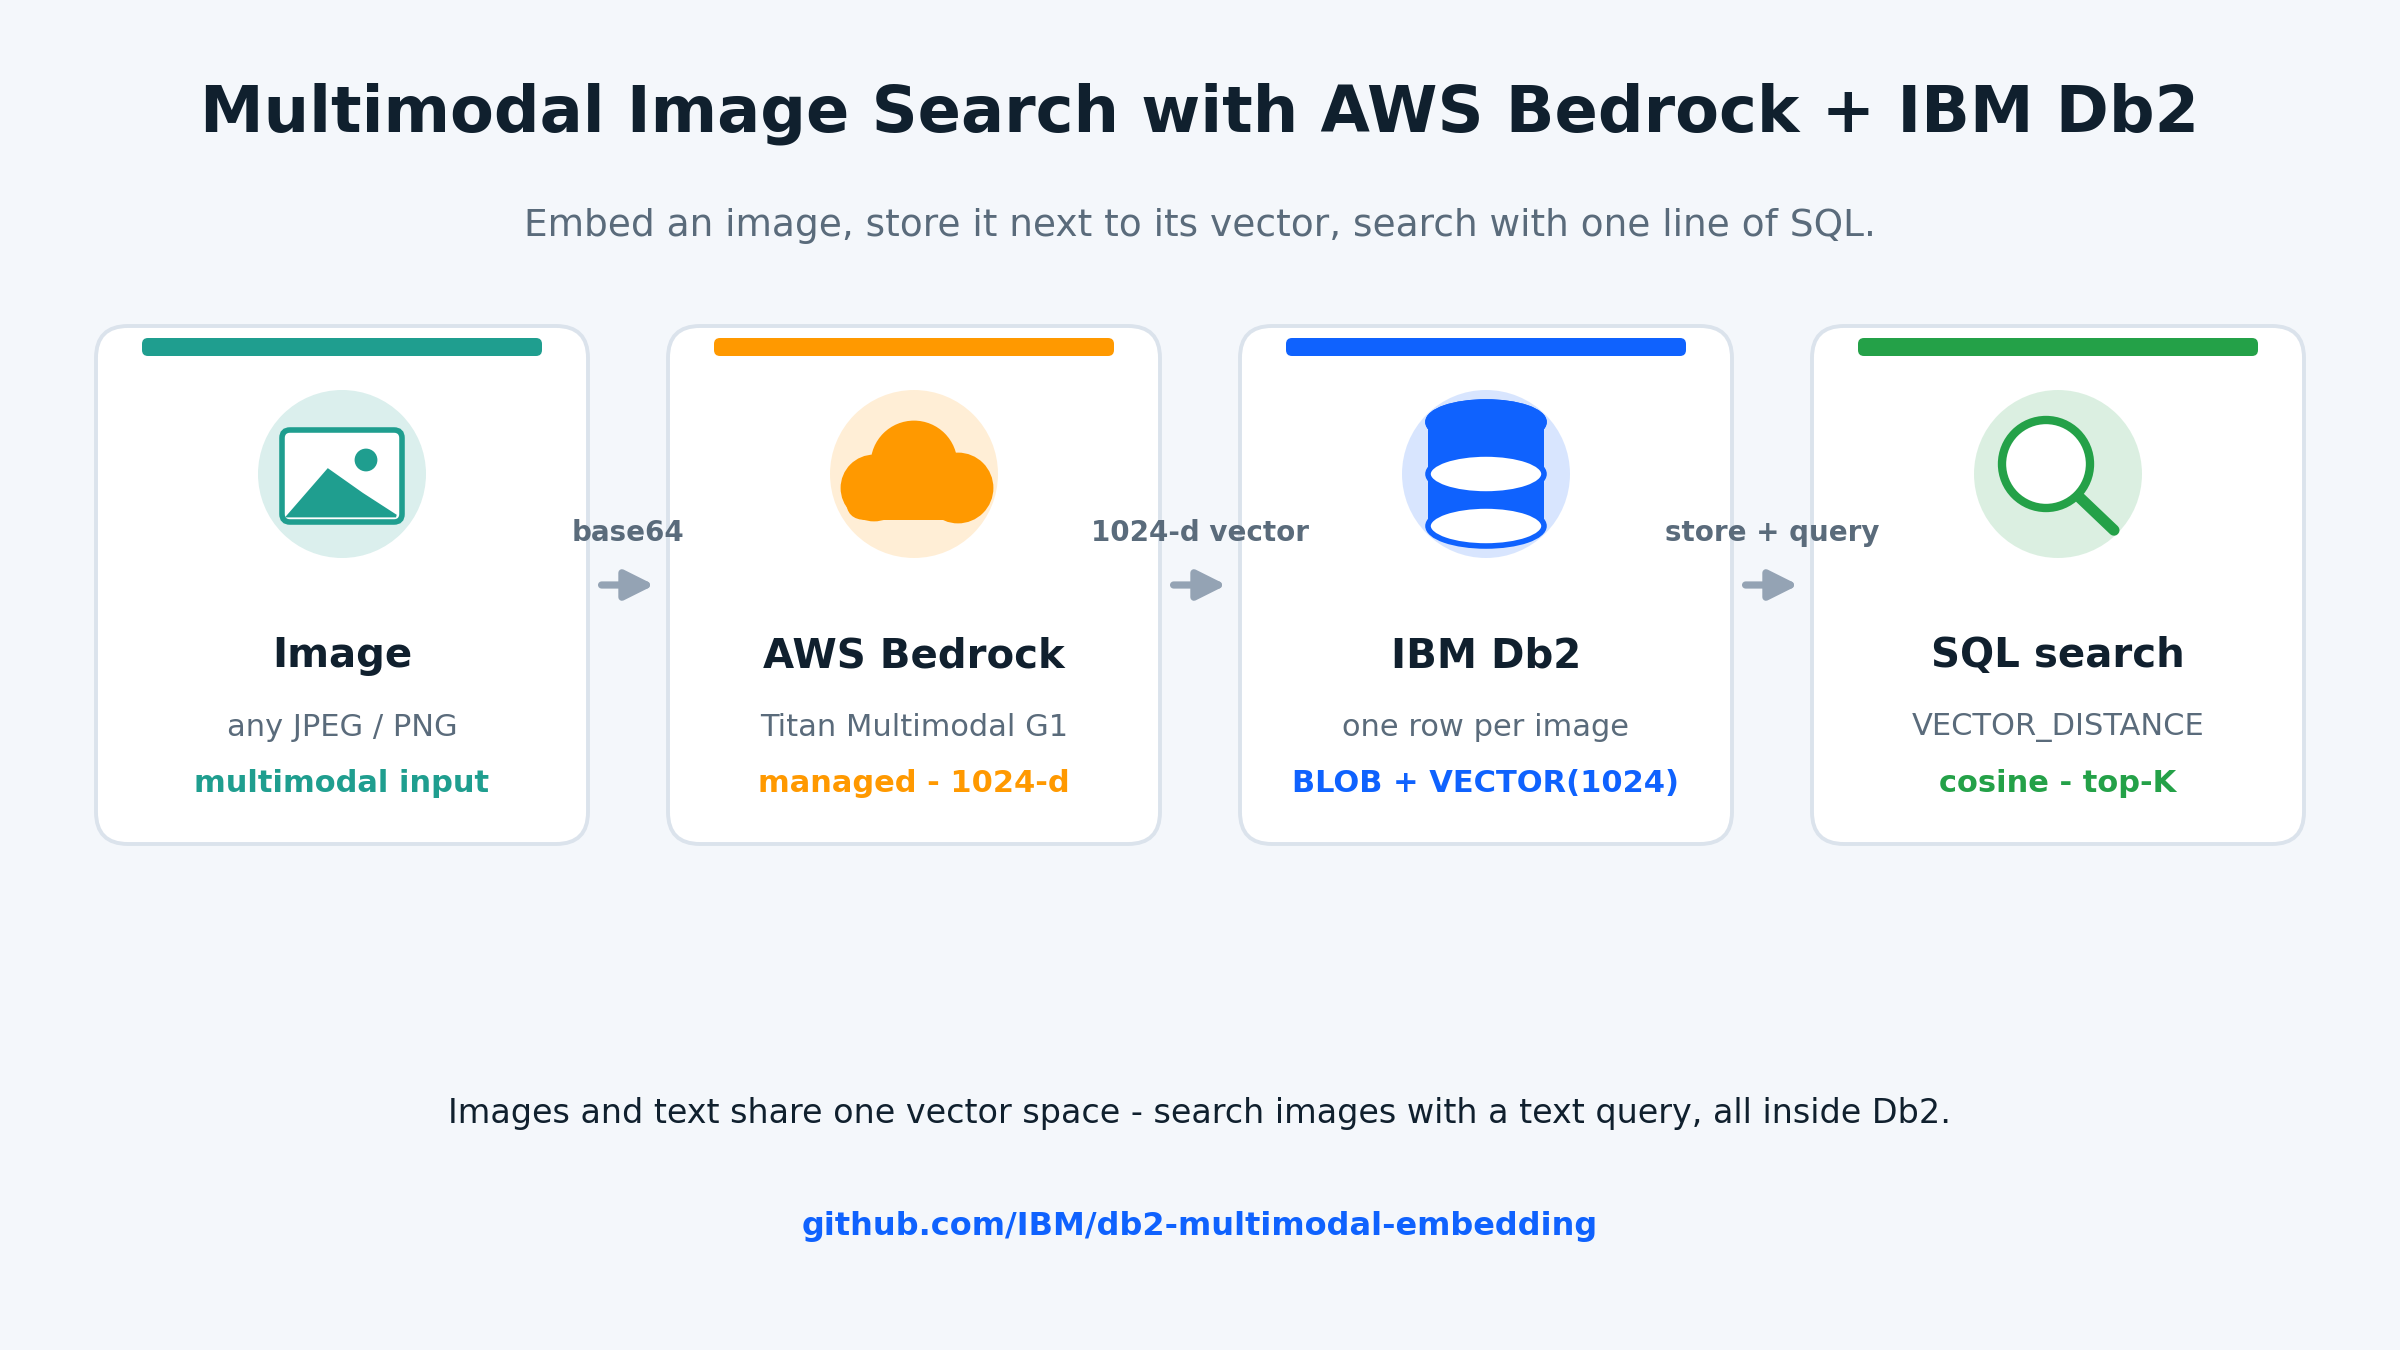
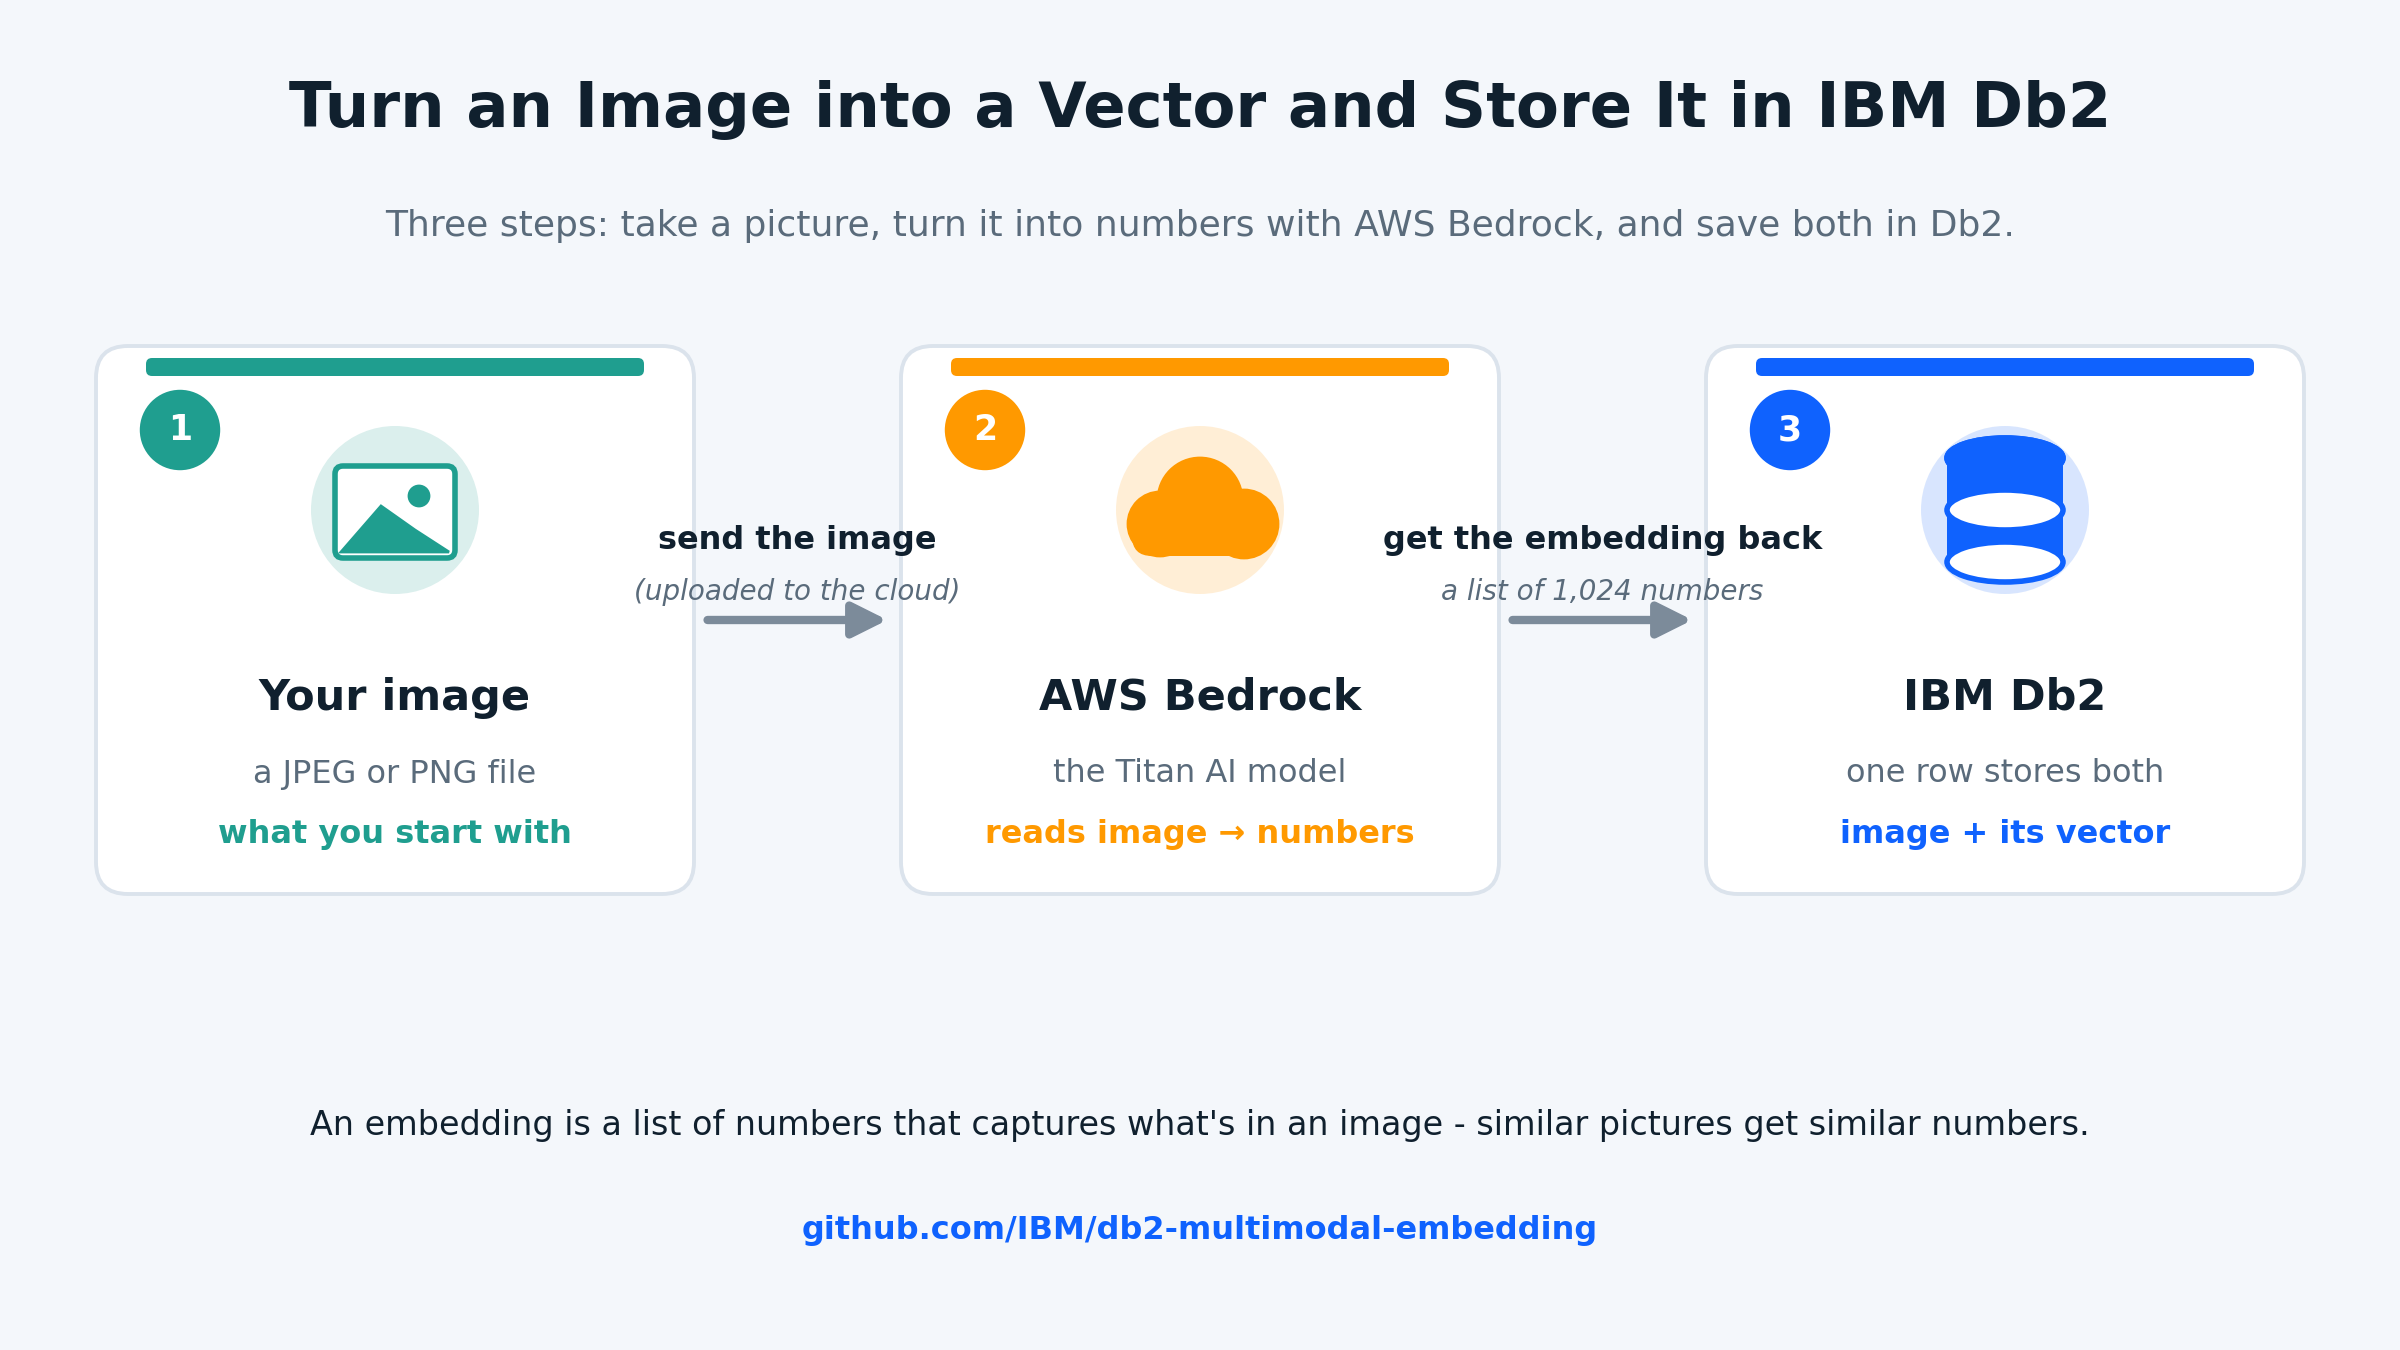
docs(bedrock): workflow image matches the code (embed + store, no search)
Drop the similarity-search step the script doesn't perform; show 3 numbered
steps (image -> Bedrock -> Db2) with plain-language arrows for readers new to
image embeddings; update captions and alt text accordingly.

diff --git a/bedrock-titan-image-embed/docs/make_workflow_image.py b/bedrock-titan-image-embed/docs/make_workflow_image.py
@@ -1,10 +1,14 @@
 """Render the Bedrock -> Db2 workflow as a LinkedIn-optimized PNG.
 
-Standalone (no module deps): uses matplotlib only. Produces a 16:9 landscape
-image at retina resolution (2400x1350) that reads well in the LinkedIn feed.
+Mirrors what embed_image.py actually does: read an image, get its embedding
+from AWS Bedrock (Titan Multimodal), and store the image + the embedding in
+IBM Db2. No similarity search happens in the script, so the diagram stops at
+"stored in Db2". Written for people new to image embeddings.
 
-    python3 docs/make_workflow_image.py
-    # -> docs/workflow_linkedin.png
+Standalone (matplotlib only). Produces a 16:9 image at retina resolution
+(2400x1350) that reads well in the LinkedIn feed.
+
+    python3 docs/make_workflow_image.py     # -> docs/workflow_linkedin.png
 """
 
 import matplotlib
@@ -19,11 +23,10 @@ SUB = "#5a6b7b"        # muted subtitle
 CANVAS = "#f4f7fb"     # page background
 CARD = "#ffffff"
 EDGE = "#dbe3ec"
-ARROW = "#94a3b4"
-IMG_C = "#1f9e8f"      # teal  (image)
+ARROW = "#7c8b9a"      # muted slate for arrows
+IMG_C = "#1f9e8f"      # teal   (image)
 AWS_C = "#ff9900"      # AWS orange
 DB2_C = "#0f62fe"      # IBM Carbon blue
-OUT_C = "#24a148"      # IBM Carbon green
 
 W, H = 12.0, 6.75      # inches; at dpi=200 -> 2400x1350 px (16:9)
 fig = plt.figure(figsize=(W, H), dpi=200)
@@ -35,31 +38,36 @@ fig.patch.set_facecolor(CANVAS)
 ax.add_patch(Rectangle((0, 0), W, H, color=CANVAS, zorder=0))
 
 # ---- header -----------------------------------------------------------------
-ax.text(W / 2, 6.18, "Multimodal Image Search with AWS Bedrock + IBM Db2",
-        ha="center", va="center", fontsize=23, fontweight="bold", color=INK)
-ax.text(W / 2, 5.62, "Embed an image, store it next to its vector, search with one line of SQL.",
-        ha="center", va="center", fontsize=13.5, color=SUB)
+ax.text(W / 2, 6.20, "Turn an Image into a Vector and Store It in IBM Db2",
+        ha="center", va="center", fontsize=22.5, fontweight="bold", color=INK)
+ax.text(W / 2, 5.62, "Three steps: take a picture, turn it into numbers with AWS Bedrock, and save both in Db2.",
+        ha="center", va="center", fontsize=13, color=SUB)
 
-# ---- card layout ------------------------------------------------------------
-CARD_W, CARD_H = 2.42, 2.55
-CY = 2.55                      # bottom y of cards
-GAP = (W - 1.0 - 4 * CARD_W) / 3.0
-XS = [0.5 + i * (CARD_W + GAP) for i in range(4)]
+# ---- card layout (3 cards) --------------------------------------------------
+CARD_W, CARD_H = 2.95, 2.70
+CY = 2.30                       # bottom y of cards
+GAP = (W - 1.0 - 3 * CARD_W) / 2.0
+XS = [0.5 + i * (CARD_W + GAP) for i in range(3)]
 CENTERS = [x + CARD_W / 2 for x in XS]
-ICON_CY = CY + CARD_H - 0.72   # icon center y
-TITLE_Y = CY + 0.92
-SUB1_Y = CY + 0.56
+ICON_CY = CY + CARD_H - 0.80
+TITLE_Y = CY + 0.96
+SUB1_Y = CY + 0.58
 SUB2_Y = CY + 0.28
 
 
-def card(x, accent):
+def card(x, accent, step):
     ax.add_patch(FancyBboxPatch((x, CY), CARD_W, CARD_H,
                  boxstyle="round,pad=0.02,rounding_size=0.16",
                  linewidth=1.4, edgecolor=EDGE, facecolor=CARD, zorder=2))
-    # accent bar at top of the card
-    ax.add_patch(FancyBboxPatch((x + 0.22, CY + CARD_H - 0.12), CARD_W - 0.44, 0.07,
+    ax.add_patch(FancyBboxPatch((x + 0.24, CY + CARD_H - 0.12), CARD_W - 0.48, 0.07,
                  boxstyle="round,pad=0.01,rounding_size=0.03",
                  linewidth=0, facecolor=accent, zorder=3))
+    # step-number badge (top-left) so beginners can follow the order
+    bx, by = x + 0.40, CY + CARD_H - 0.40
+    ax.add_patch(Circle((bx, by), 0.215, facecolor=accent, edgecolor="white",
+                        linewidth=2.0, zorder=6))
+    ax.text(bx, by, str(step), ha="center", va="center", fontsize=12.5,
+            fontweight="bold", color="white", zorder=7)
 
 
 def chip(cx, color):
@@ -68,10 +76,10 @@ def chip(cx, color):
 
 
 def label(cx, title, s1, s2, color):
-    ax.text(cx, TITLE_Y, title, ha="center", va="center", fontsize=14.5,
+    ax.text(cx, TITLE_Y, title, ha="center", va="center", fontsize=15.5,
             fontweight="bold", color=INK, zorder=4)
-    ax.text(cx, SUB1_Y, s1, ha="center", va="center", fontsize=11, color=SUB, zorder=4)
-    ax.text(cx, SUB2_Y, s2, ha="center", va="center", fontsize=11, color=color,
+    ax.text(cx, SUB1_Y, s1, ha="center", va="center", fontsize=11.5, color=SUB, zorder=4)
+    ax.text(cx, SUB2_Y, s2, ha="center", va="center", fontsize=11.5, color=color,
             fontweight="bold", zorder=4)
 
 
@@ -109,41 +117,40 @@ def icon_db(cx):
                          linewidth=2.0, zorder=6))
 
 
-def icon_search(cx):
-    chip(cx, OUT_C)
-    ax.add_patch(Circle((cx - 0.06, ICON_CY + 0.05), 0.22, facecolor="white",
-                        edgecolor=OUT_C, linewidth=3.0, zorder=4))
-    ax.add_patch(FancyArrowPatch((cx + 0.09, ICON_CY - 0.10), (cx + 0.30, ICON_CY - 0.30),
-                 arrowstyle="-", linewidth=4.0, color=OUT_C, zorder=4))
-
-
 # ---- build cards ------------------------------------------------------------
 specs = [
-    (icon_image, "Image", "any JPEG / PNG", "multimodal input", IMG_C),
-    (icon_cloud, "AWS Bedrock", "Titan Multimodal G1", "managed - 1024-d", AWS_C),
-    (icon_db, "IBM Db2", "one row per image", "BLOB + VECTOR(1024)", DB2_C),
-    (icon_search, "SQL search", "VECTOR_DISTANCE", "cosine - top-K", OUT_C),
+    (icon_image, "Your image", "a JPEG or PNG file", "what you start with", IMG_C),
+    (icon_cloud, "AWS Bedrock", "the Titan AI model", "reads image → numbers", AWS_C),
+    (icon_db, "IBM Db2", "one row stores both", "image + its vector", DB2_C),
 ]
-for x, c, (draw, t, s1, s2, col) in zip(XS, CENTERS, specs):
-    card(x, col)
+for x, c, (draw, t, s1, s2, col), step in zip(XS, CENTERS, specs, (1, 2, 3)):
+    card(x, col, step)
     draw(c)
     label(c, t, s1, s2, col)
 
-# ---- arrows + edge labels ---------------------------------------------------
-edge_labels = ["base64", "1024-d vector", "store + query"]
-for i in range(3):
+# ---- arrows + plain-language labels -----------------------------------------
+# Top line = the action; bottom line = what it means, for first-timers.
+edge_labels = [
+    ("send the image", "(uploaded to the cloud)"),
+    ("get the embedding back", "a list of 1,024 numbers"),
+]
+for i in range(2):
     x0 = XS[i] + CARD_W + 0.06
     x1 = XS[i + 1] - 0.06
     ya = CY + CARD_H / 2
     ax.add_patch(FancyArrowPatch((x0, ya), (x1, ya), arrowstyle="-|>",
-                 mutation_scale=22, linewidth=2.6, color=ARROW, zorder=1))
-    ax.text((x0 + x1) / 2, ya + 0.26, edge_labels[i], ha="center", va="center",
-            fontsize=10, color=SUB, fontweight="bold", zorder=5)
+                 mutation_scale=26, linewidth=3.0, color=ARROW, zorder=1))
+    top, bottom = edge_labels[i]
+    ax.text((x0 + x1) / 2, ya + 0.40, top, ha="center", va="center",
+            fontsize=11.5, color=INK, fontweight="bold", zorder=5)
+    ax.text((x0 + x1) / 2, ya + 0.14, bottom, ha="center", va="center",
+            fontsize=10, color=SUB, style="italic", zorder=5)
 
 # ---- footer -----------------------------------------------------------------
-ax.text(W / 2, 1.18, "Images and text share one vector space - search images with a text query, all inside Db2.",
+ax.text(W / 2, 1.12,
+        "An embedding is a list of numbers that captures what's in an image - similar pictures get similar numbers.",
         ha="center", va="center", fontsize=12, color=INK)
-ax.text(W / 2, 0.62, "github.com/IBM/db2-multimodal-embedding", ha="center", va="center",
+ax.text(W / 2, 0.60, "github.com/IBM/db2-multimodal-embedding", ha="center", va="center",
         fontsize=11.5, color=DB2_C, fontweight="bold")
 
 out = "docs/workflow_linkedin.png"

diff --git a/bedrock-titan-image-embed/README.md b/bedrock-titan-image-embed/README.md
@@ -9,7 +9,7 @@
 
 This is a minimal, end-to-end **tutorial**: managed inference wired straight into a SQL database that understands vectors. The whole client is ~40 lines in [`embed_image.py`](embed_image.py).
 
-![Workflow: an image is sent as base64 to AWS Bedrock (Titan Multimodal G1), which returns a 1024-d vector; the image (BLOB) and vector (VECTOR(1024)) are stored in one IBM Db2 row and searched with VECTOR_DISTANCE cosine](docs/workflow_linkedin.png)
+![Workflow: (1) your image is sent to AWS Bedrock, (2) the Titan Multimodal model turns it into an embedding — a list of 1,024 numbers, (3) the image and its vector are stored together in one IBM Db2 row](docs/workflow_linkedin.png)
 
 <sub>Diagram source: [`docs/make_workflow_image.py`](docs/make_workflow_image.py) → regenerate with `python3 docs/make_workflow_image.py`. The PNG is 2400×1350 (16:9), sized for sharing on LinkedIn.</sub>
 
